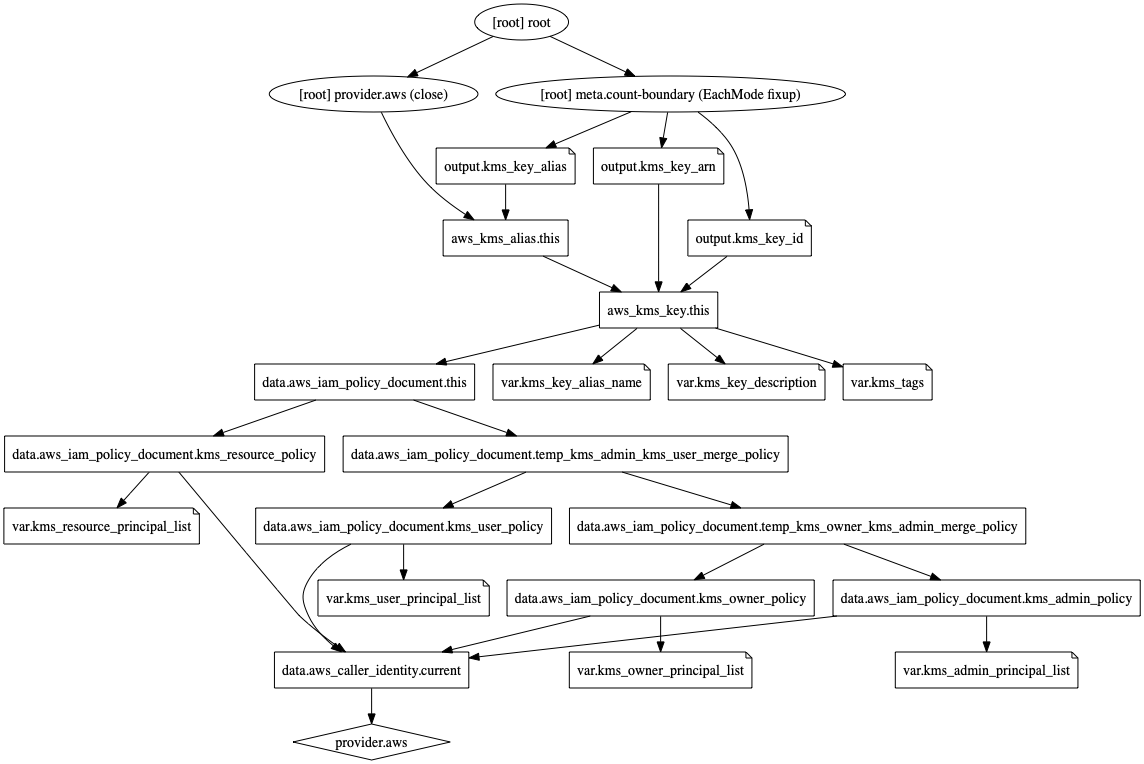
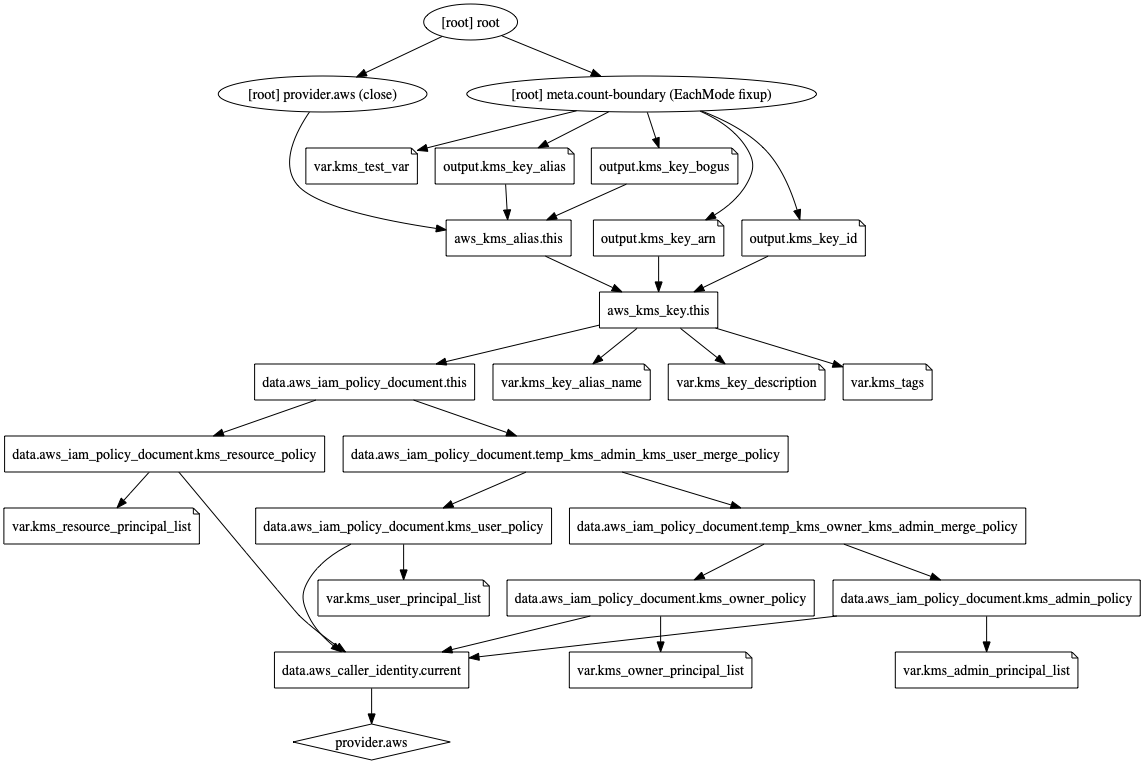
Test New Var

diff --git a/README.md b/README.md
@@ -29,6 +29,7 @@
   * :recycle: `kms_admin_principal_list`
   * :recycle: `kms_user_principal_list`
   * :recycle: `kms_resource_principal_list`
+  * :recycle: `kms_test_var`
   * :recycle: `kms_tags`
 * [Module Example Usage](#module-example-usage)
 * [Variables and TFVar Reference File Templates](#variables-and-tfvar-reference-file-templates)
@@ -82,7 +83,6 @@ This module does not currently have any pre-requisites or dependency requirement
 │           ├── terraform-provider-aws_v2.47.0_x4
 │           └── lock.json
 ├── TODO_NOTES.yaml
-├── README.md
 ├── README.yaml
 ├── variables.tf
 ├── templates
@@ -118,6 +118,7 @@ module "kms" {
     # kms_admin_principal_list    = []
     # kms_user_principal_list     = []
     # kms_resource_principal_list = []
+    # kms_test_var                = []
 
     # kms_tags = {
     #   Provisioned_By = "Terraform"
@@ -490,6 +491,50 @@ module "kms" {
 
 <br><br><br>
 
+## :white_check_mark: kms_test_var
+
+<br>
+
+![Optional](images/neon_optional.png)
+
+<br>
+
+Test all the things.
+
+<br><br>
+
+### :file_folder: Declaration of kms_test_var within the modules variables.tf file
+
+```terraform
+variable "kms_test_var" {
+    type        = list
+    description = "Test all the things."
+    default     = []
+}
+
+}
+```
+
+<br><br>
+
+### :file_folder: Setting the kms_test_var module variable within a projects root main.tf file
+
+```terraform
+module "kms" {
+    source = "git@github.com:rnason/ActionsTest?ref=v1.1.0"
+
+    // Required Variables
+    kms_key_alias_name  = prod/s3
+    kms_key_description = KMS key provisioned to encrypt prod s3 bucket
+
+
+    // Optional Variables with module defined default values assigned
+    kms_test_var                = None
+}
+```
+
+<br><br><br>
+
 ## :white_check_mark: kms_tags
 
 <br>
@@ -611,6 +656,11 @@ variable "kms_resource_principal_list" {
     description = "List of users/roles that will be granted permissions to create/list/delete temporary grants to the provisioned KMS CMK."
     default     = []
 }
+variable "kms_test_var" {
+    type        = list
+    description = "Test all the things."
+    default     = []
+}
 
 variable "kms_tags" {
     type        = map
@@ -647,6 +697,7 @@ kms_key_description = "Value Required"
 # kms_admin_principal_list    = []
 # kms_user_principal_list     = []
 # kms_resource_principal_list = []
+# kms_test_var                = []
 
 # kms_tags = {
 #   Provisioned_By = "Terraform"
@@ -677,6 +728,9 @@ output "kms_key_arn" {
 output "kms_key_alias" {
     aws_kms_alias.this.arn
 }
+output "kms_key_bogus" {
+    aws_kms_alias.this.bogus
+}
 ```
 
 <br><br>
@@ -695,6 +749,9 @@ output "kms_key_arn" {
 }
 output "kms_key_alias" {
     value = module.kms.kms_key_alias
+}
+output "kms_key_bogus" {
+    value = module.kms.kms_key_bogus
 }
 ```
 
